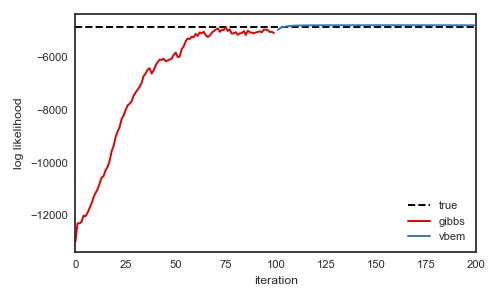
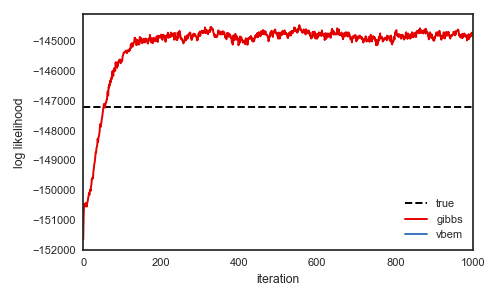
fixing bug in generate states

Changed region(s): [[0.03, 0.03, 0.99, 0.96], [0.27, 0.18, 0.36, 0.3]]

diff --git a/pyslds/states.py b/pyslds/states.py
@@ -25,49 +25,14 @@ class _SLDSStates(object):
         if gaussian_states is not None and stateseq is not None:
             self.gaussian_states = gaussian_states
             self.stateseq = np.array(stateseq, dtype=np.int32)
-            if data is not None and not initialize_from_prior:
-                self.resample()
-
-        elif stateseq is not None or gaussian_states is not None:
-            raise Exception("Must specify gaussian states and discrete states if "
-                            "you want to initialize with given latent states.")
-            self.stateseq = np.array(stateseq,dtype=np.int32)
-            self.generate_gaussian_states()
 
         elif generate:
-            if data is not None and not initialize_from_prior:
-                self.resample()
-            else:
-                self.generate_states()
+            self.generate_states(stateseq=stateseq)
 
-    # def generate_states(self, initial_condition=None, with_noise=True):
-    #     super(_SLDSStates,self).generate_states()
-    #     self.generate_gaussian_states(with_noise=with_noise)
-    #
-    # def generate_gaussian_states(self, with_noise=True):
-    #     # Generate from the prior and raise exception if unstable
-    #     T, n = self.T, self.D_latent
-    #
-    #     # The discrete stateseq should be populated by the super call above
-    #     dss = self.stateseq
-    #
-    #     gss = np.empty((T,n),dtype='double')
-    #     gss[0] = self.init_dynamics_distns[dss[0]].rvs()
-    #
-    #     for t in range(1,T):
-    #         if with_noise:
-    #             gss[t] = self.dynamics_distns[dss[t-1]].\
-    #                 rvs(x=np.hstack((gss[t-1][None,:], self.inputs[t-1][None,:])),
-    #                     return_xy=False)
-    #         else:
-    #             gss[t] = self.dynamics_distns[dss[t-1]]. \
-    #                 predict(np.hstack((gss[t-1][None,:], self.inputs[t-1][None,:])))
-    #
-    #         assert np.all(np.isfinite(gss[t])), "SLDS appears to be unstable!"
-    #
-    #     self.gaussian_states = gss
+        if data is not None and not initialize_from_prior:
+            self.resample()
 
-    def generate_states(self, initial_condition=None, with_noise=True):
+    def generate_states(self, initial_condition=None, with_noise=True, stateseq=None):
         """
         Jointly sample the discrete and continuous states
         """
@@ -77,12 +42,13 @@ class _SLDSStates(object):
         A = self.trans_matrix
 
         # Initialize discrete state sequence
-        dss = np.empty(T, dtype=np.int32)
+        dss = -1 * np.ones(T, dtype=np.int32) if stateseq is None else stateseq.astype(np.int32)
+        assert dss.shape == (T,)
         gss = np.empty((T,n), dtype='double')
 
         if initial_condition is None:
-            init_state_distn = np.ones(self.num_states) / float(self.num_states)
-            dss[0] = sample_discrete(self.pi_0)
+            if dss[0] == -1:
+                dss[0] = sample_discrete(self.pi_0)
             gss[0] = self.init_dynamics_distns[dss[0]].rvs()
         else:
             dss[0] = initial_condition[0]
@@ -91,15 +57,19 @@ class _SLDSStates(object):
         for t in range(1,T):
             # Sample discrete state given previous continuous state
             if with_noise:
-                # Sample discrete state from recurrent transition matrix
-                dss[t] = sample_discrete(A[dss[t-1], :])
+                # Sample discre=te state from recurrent transition matrix
+                if dss[t] == -1:
+                    dss[t] = sample_discrete(A[dss[t-1], :])
+
                 # Sample continuous state given current discrete state
                 gss[t] = self.dynamics_distns[dss[t-1]].\
                     rvs(x=np.hstack((gss[t-1][None,:], self.inputs[t-1][None,:])),
                         return_xy=False)
             else:
                 # Pick the most likely next discrete state and continuous state
-                dss[t] = np.argmax(A[dss[t-1], :])
+                if dss[t] == -1:
+                    dss[t] = np.argmax(A[dss[t-1], :])
+
                 gss[t] = self.dynamics_distns[dss[t-1]]. \
                     predict(np.hstack((gss[t-1][None,:], self.inputs[t-1][None,:])))
             assert np.all(np.isfinite(gss[t])), "SLDS appears to be unstable!"

diff --git a/examples/simple_demo.py b/examples/simple_demo.py
@@ -42,7 +42,7 @@ npr.seed(0)
 
 # Set parameters
 K = 5
-D_obs = 10
+D_obs = 100
 D_latent = 2
 D_input = 1
 T = 1000
@@ -50,12 +50,13 @@ T = 1000
 # Make an LDS with known parameters
 true_mu_inits = [np.ones(D_latent) for _ in range(K)]
 true_sigma_inits = [np.eye(D_latent) for _ in range(K)]
-true_As = [.99 * random_rotation(D_latent, theta=np.pi/((k+1) * 4)) for k in range(K)]
+true_As = [.9 * random_rotation(D_latent)
+           for k in range(K)]
 true_Bs = [3 * npr.randn(D_latent, D_input) for k in range(K)]
 true_sigma_states = [np.eye(D_latent) for _ in range(K)]
 true_C = np.random.randn(D_obs, D_latent)
 true_Ds = np.zeros((D_obs, D_input))
-true_sigma_obs = 0.05 * np.eye(D_obs)
+true_sigma_obs = np.eye(D_obs)
 true_model = DefaultSLDS(
     K, D_obs, D_latent, D_input=D_input,
     mu_inits=true_mu_inits, sigma_inits=true_sigma_inits,
@@ -65,7 +66,7 @@ true_model = DefaultSLDS(
 # Simulate some data with a given discrete state sequence
 inputs = np.ones((T, D_input))
 z = np.arange(K).repeat(T // K)
-y, x, _ = true_model.generate(T, inputs=inputs, stateseq=z)
+y, x, z = true_model.generate(T, inputs=inputs, stateseq=z)
 
 # Fit with another LDS.  Give it twice as many states in
 # order to have some flexibility during inference.
@@ -76,7 +77,7 @@ test_model.add_data(y, inputs=inputs)
 
 # Initialize with Gibbs sampler
 print("Initializing with Gibbs")
-N_gibbs_samples = 100
+N_gibbs_samples = 1000
 def initialize(model):
     model.resample_model()
     return model.log_likelihood()

diff --git a/pyslds/models.py b/pyslds/models.py
@@ -33,9 +33,9 @@ class _SLDSMixin(object):
         super(_SLDSMixin,self).__init__(
             obs_distns=self.dynamics_distns,**kwargs)
 
-    def generate(self, T=100, keep=True, with_noise=True, initial_condition=None, **kwargs):
+    def generate(self, T=100, keep=True, with_noise=True, initial_condition=None, stateseq=None, **kwargs):
         s = self._states_class(model=self, T=T, initialize_from_prior=True, **kwargs)
-        s.generate_states(with_noise=with_noise, initial_condition=initial_condition)
+        s.generate_states(with_noise=with_noise, initial_condition=initial_condition, stateseq=stateseq)
         data = self._generate_obs(s)
         if keep:
             self.states_list.append(s)
